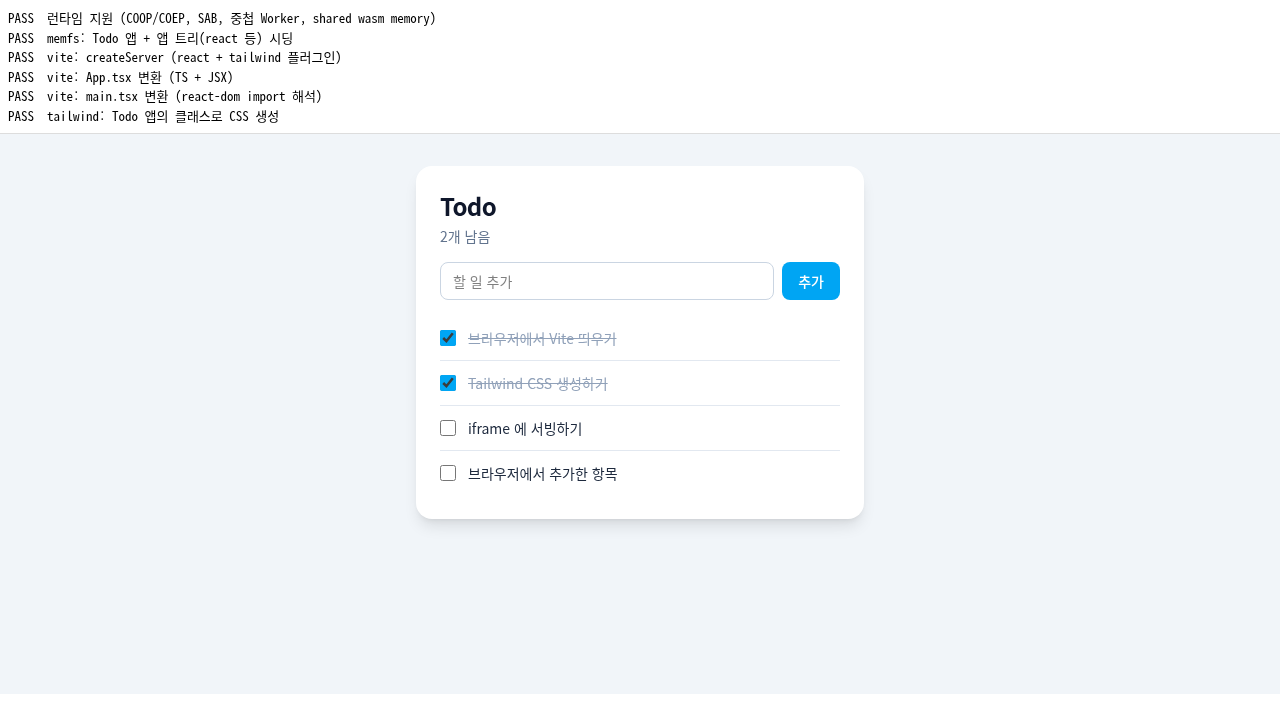
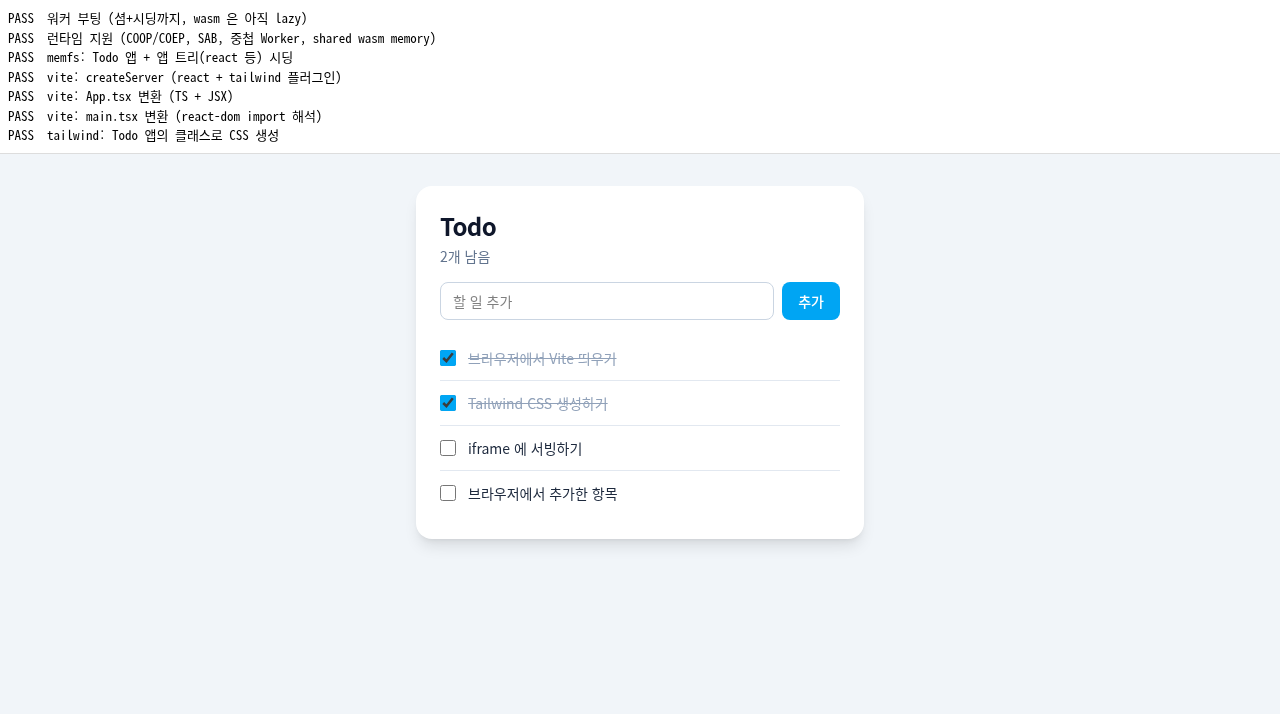
성능 측정: 콜드 스타트 1.6초, 툴체인 gzip 5.5MB
콜드 스타트
    워커 부팅 (셤+시딩)           211ms
    memfs 시딩                      4ms
    vite: createServer            186ms
    App.tsx 변환 (TS+JSX)         103ms
    main.tsx (React 프리번들 포함) 255ms
    tailwind CSS 생성              97ms
    실제 연산 합계               ~860ms
    페이지 열기 → 렌더 완료        1.6초

  툴체인 다운로드 (26개 파일)
    비압축 22.1 MB → gzip 5.5 MB
      3.17 MB gz  rolldown-binding.wasm32-wasi.wasm  ← 58%
      1.53 MB gz  worker.js (테스트/앱 소스 포함 — 제품에선 빠짐)

대부분이 .wasm 이라 immutable 캐시가 잘 먹는다.

테스트에 단계별 소요시간과 실제 다운로드 크기 측정을 추가.
(전엔 iframe 로드 후 4초를 그냥 자고 있어서 5.7초로 보였다 — 인위적 대기 제거.)

HMR 은 안 붙이기로. 서버가 살아있어 바뀐 파일만 재변환되므로 리로드가 싸다.
HMR 의 이점은 속도가 아니라 상태 보존이며, 필요해지면 server.hot 위에 얹으면 된다.

diff --git a/test/browser/worker.ts b/test/browser/worker.ts
@@ -46,30 +46,39 @@ interface Result {
   name: string
   ok: boolean
   detail: string
+  ms?: number
 }
 
 const results: Result[] = []
+// 워커 스크립트가 평가되기 시작한 시각 = 페이지가 new Worker() 한 직후
+const WORKER_T0 = performance.now()
 
 const t = async (name: string, fn: () => unknown): Promise<void> => {
+  const t0 = performance.now()
   try {
     const timeout = new Promise((_, rej) =>
       setTimeout(() => rej(new Error('40초 타임아웃 — 여기서 멈춤')), 40_000),
     )
-    results.push({
-      name,
-      ok: true,
-      detail: String(await Promise.race([fn(), timeout])).slice(0, 150),
-    })
+    const detail = String(await Promise.race([fn(), timeout])).slice(0, 150)
+    results.push({ name, ok: true, ms: Math.round(performance.now() - t0), detail })
   } catch (e) {
     const err = e as Error
     results.push({
       name,
       ok: false,
+      ms: Math.round(performance.now() - t0),
       detail: String(err?.stack || err?.message || e).replace(/\s+/g, ' ').slice(0, 240),
     })
   }
   ;(self as unknown as Worker).postMessage([...results])
 }
+
+results.push({
+  name: '워커 부팅 (셤+시딩까지, wasm 은 아직 lazy)',
+  ok: true,
+  ms: Math.round(WORKER_T0),
+  detail: `페이지 로드 시점부터 ${Math.round(WORKER_T0)}ms`,
+})
 
 await t('런타임 지원 (COOP/COEP, SAB, 중첩 Worker, shared wasm memory)', () => {
   const s = checkRuntimeSupport()

diff --git a/test/browser/index.html b/test/browser/index.html
@@ -56,8 +56,8 @@
       // 워커의 Vite 서버가 준비될 때까지 기다렸다가 iframe 을 띄운다
       const serverReady = () =>
         (window.__partial ?? []).some((r) => r.name.includes('createServer') && r.ok)
-      for (let i = 0; i < 120 && !serverReady(); i++) {
-        await new Promise((r) => setTimeout(r, 500))
+      for (let i = 0; i < 1200 && !serverReady(); i++) {
+        await new Promise((r) => setTimeout(r, 20))
       }
       console.log('[bridge] serverReady=', serverReady(), '→ iframe 로드')
       document.getElementById('preview').src = '/preview/index.html'
@@ -68,8 +68,6 @@
       )
       await Promise.race([iframeLoaded, new Promise((r) => setTimeout(r, 60000))])
       console.log('[bridge] iframe load 이벤트 완료')
-      // React 렌더까지 여유를 준다
-      await new Promise((r) => setTimeout(r, 4000))
       window.__done = window.__partial
     </script>
   </body>

diff --git a/README.md b/README.md
@@ -50,6 +50,36 @@ Chrome 149 / 워커 / COOP·COEP 적용 상태에서 실측:
 
 ![Todo 앱](test/browser/screenshot.png)
 
+## 성능 (Chrome 149, localhost, 캐시 없음)
+
+```
+콜드 스타트
+  워커 부팅 (셤+시딩)           211ms
+  memfs 시딩                      4ms
+  vite: createServer            186ms
+  App.tsx 변환 (TS+JSX)         103ms
+  main.tsx (React 프리번들 포함) 255ms   ← optimizeDeps 가 CJS React 를 씹는 구간
+  tailwind CSS 생성              97ms
+  ─────────────────────────────────
+  실제 연산 합계               ~860ms
+  페이지 열기 → 렌더 완료        1.6초   ← 나머지는 wasm 다운로드/인스턴스화
+
+툴체인 다운로드 (26개 파일)
+  비압축 22.1 MB  →  gzip 5.5 MB
+    3.17 MB gz   rolldown-binding.wasm32-wasi.wasm   ← 58%
+    1.53 MB gz   worker.js (Vite + 셤 + Tailwind + 테스트/앱 소스)
+    0.34 MB gz   node.js
+```
+
+대부분이 `.wasm` 이라 immutable 캐시가 잘 먹는다 — 두 번째 방문부터는 1.6초의
+상당 부분이 사라진다. `worker.js` 에는 지금 테스트 코드와 Todo 앱 소스가 같이
+들어있어서 실제 제품에선 더 작다. Brotli 를 쓰면 wasm 이 gzip 대비 15~20% 더 준다.
+
+**HMR 은 안 붙였다.** 서버가 살아있으므로 편집 시 바뀐 파일만 다시 변환된다
+(`.tsx` 하나 ≈ 100ms, iframe 리로드 포함 200~300ms 예상). HMR 의 이점은 속도가
+아니라 **상태 보존**이다 — 리로드하면 앱 상태가 날아간다. 거슬리면 그때
+`ws` → BroadcastChannel 로 얹으면 된다 (`server.hot` 은 이미 살아있다).
+
 ## 알아낸 것들
 
 ### SharedArrayBuffer 는 피할 수 없다 (Tailwind v4 를 쓰는 한)